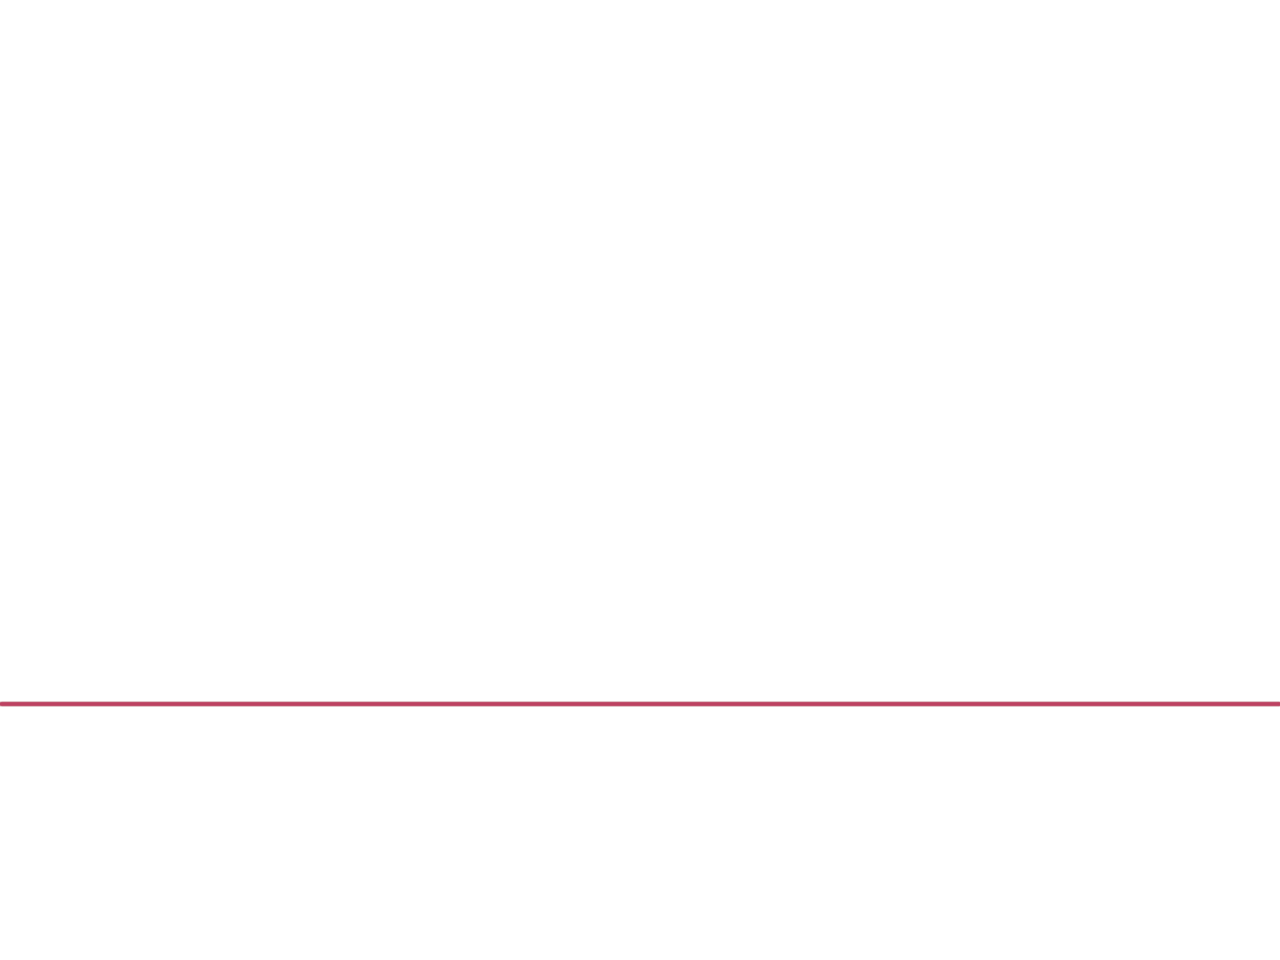
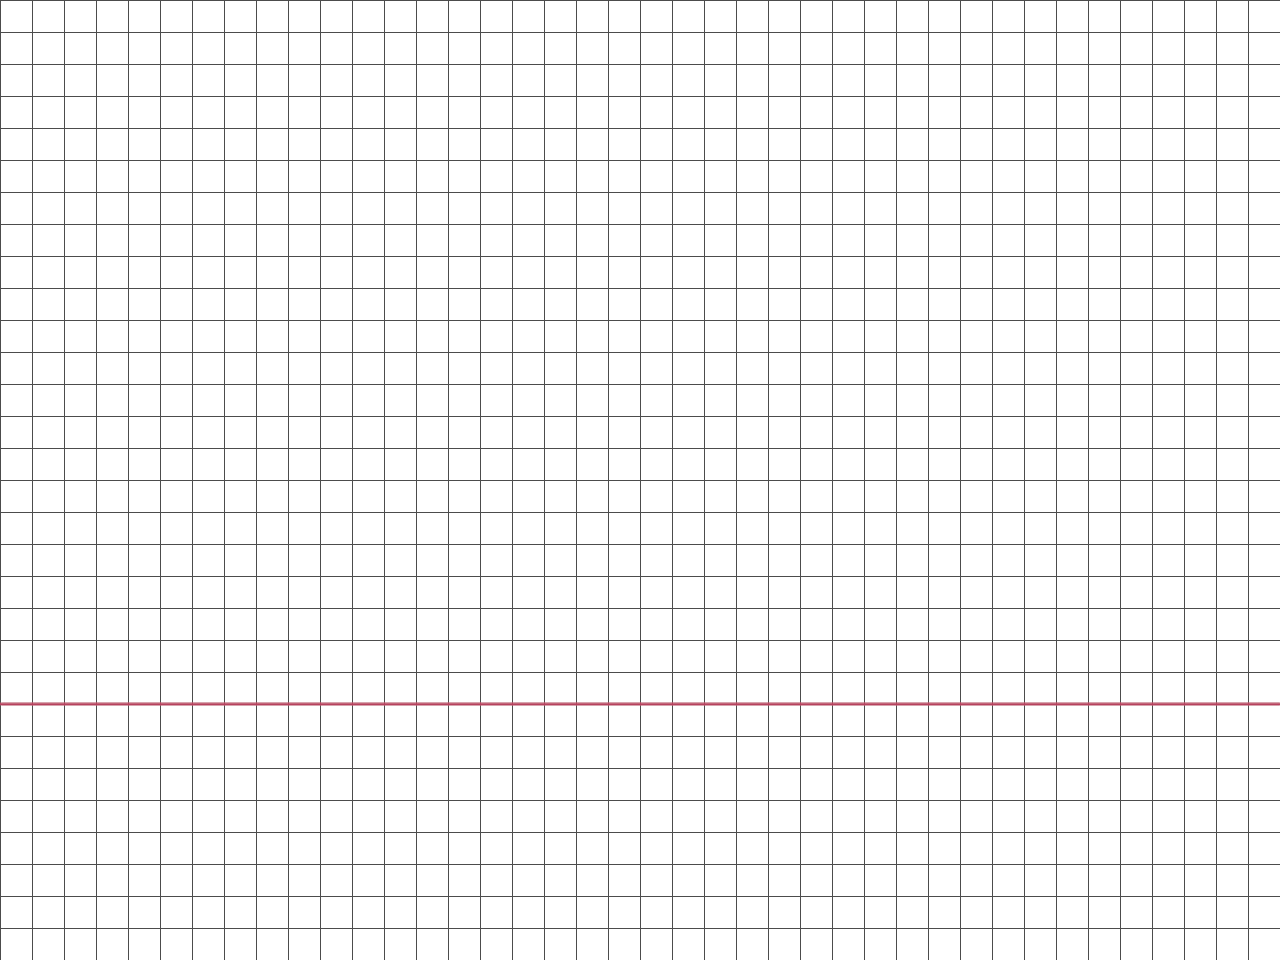
zmienione tło

Changed region(s): [[0.0, 0.7188, 1.0, 0.75]]

diff --git a/src/Game.java b/src/Game.java
@@ -22,7 +22,7 @@ public class Game extends JFrame
         importImgage();
 
 
-            setSize(1294, 998); //Robimy na takich wymairach
+            setSize(1280, 960); //Robimy na takich wymairach
             setVisible(true);
             setDefaultCloseOperation(JFrame.EXIT_ON_CLOSE);
             setLocationRelativeTo(null);
